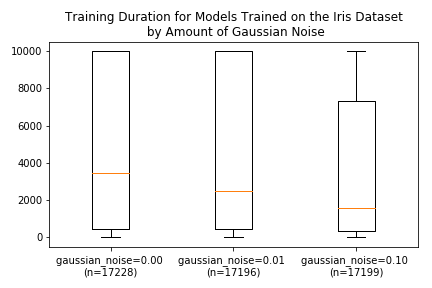
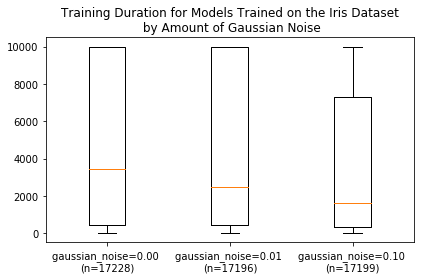
add plots for batch size results

Changed region(s): [[0.0, 0.0286, 0.9811, 0.9714]]

diff --git a/notebooks/utils.py b/notebooks/utils.py
@@ -310,7 +310,7 @@ def make_boxplot(df, base_mask, variable_mask, a_config, b_config, metric, title
     
     return fig, axes
 
-def make_n_way_boxplot(df, base_mask, variable_masks, configs, metric, title, double_plot=True):    
+def make_n_way_boxplot(df, base_mask, variable_masks, configs, metric, title, double_plot=True, show_fliers=True):    
     """Make box plots comparing multiple values of a variable (e.g. different learning rates)
     in terms of one of the four metrics (train_loss, train_scores, val_loss, val_scores).
     
@@ -327,7 +327,8 @@ def make_n_way_boxplot(df, base_mask, variable_masks, configs, metric, title, do
         
     :param metric: The metric by which the configurations of the variable from variable_mask should be compared.
     :param title: The title of the plot.
-    :param double_plot: Whether or not to plot two plots, one with outliers and one without, or whether to plot a single plot with the outliers shown.
+    :param double_plot: Whether or not to plot two plots, one with outliers and one without, or whether to plot a single plot.
+    :param show_fliers: Whether or not to plots outliers if `double_plot` is False.
     
     :return: The figure and axes of the plot.
     """
@@ -355,7 +356,7 @@ def make_n_way_boxplot(df, base_mask, variable_masks, configs, metric, title, do
     else:
         fig, axes = plt.subplots(1, 1, squeeze=True, figsize=(6, 4))
 
-        axes.boxplot(groups, showfliers=True)
+        axes.boxplot(groups, showfliers=show_fliers)
         axes.set_xticklabels(ticks)
         axes.set_title(title)
 
